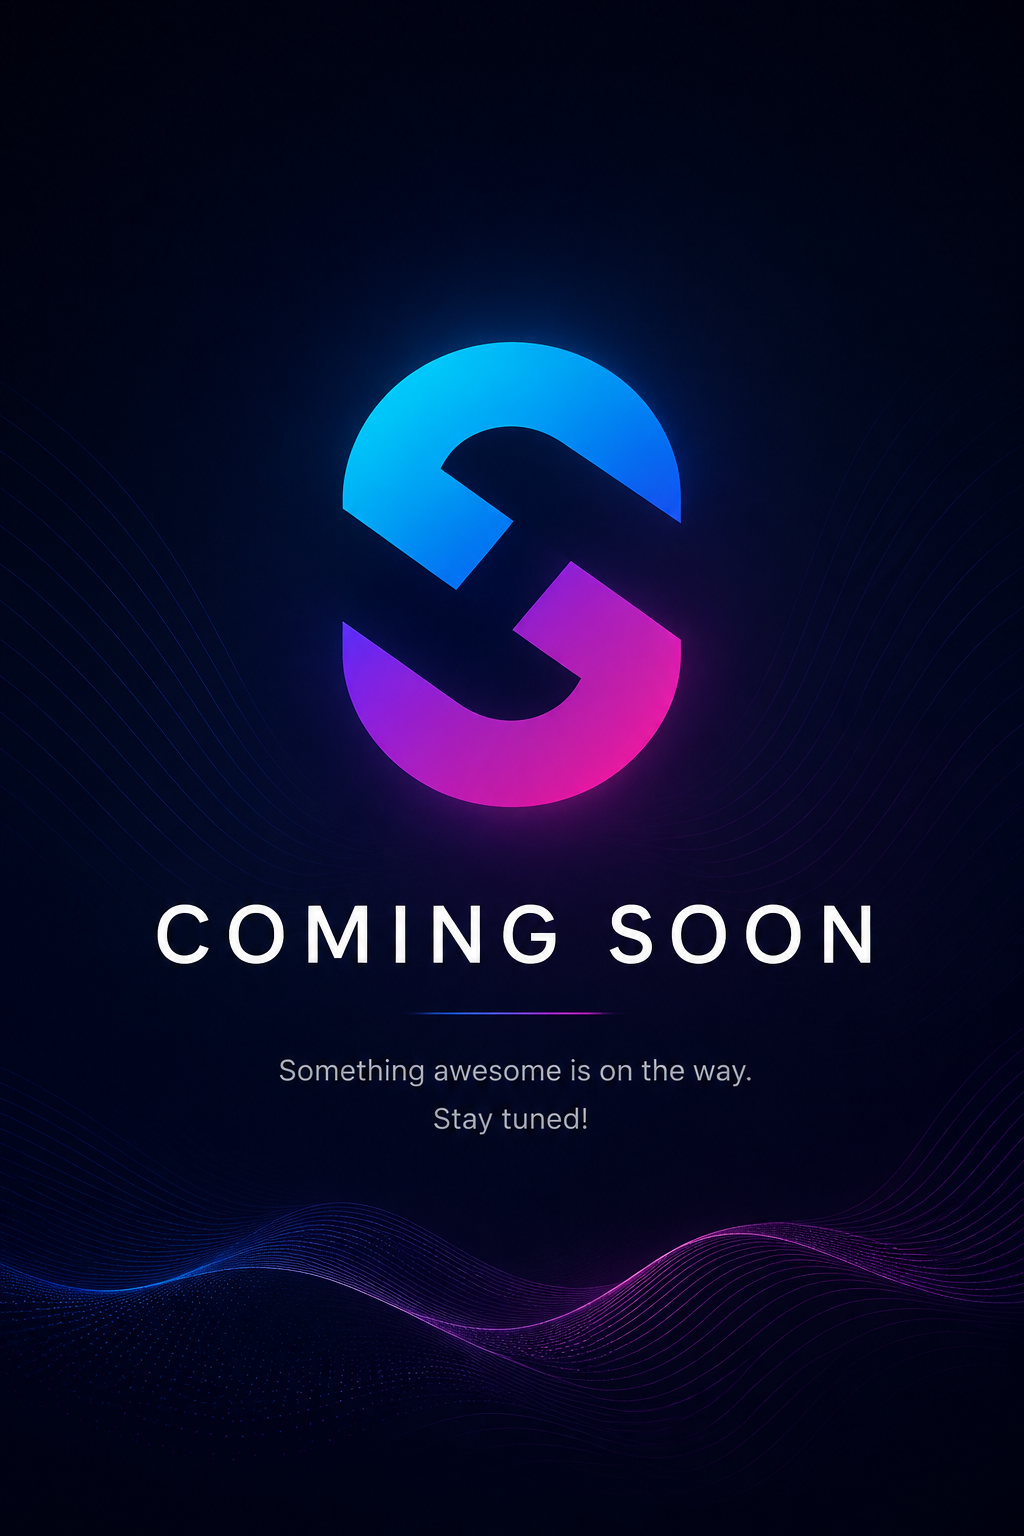
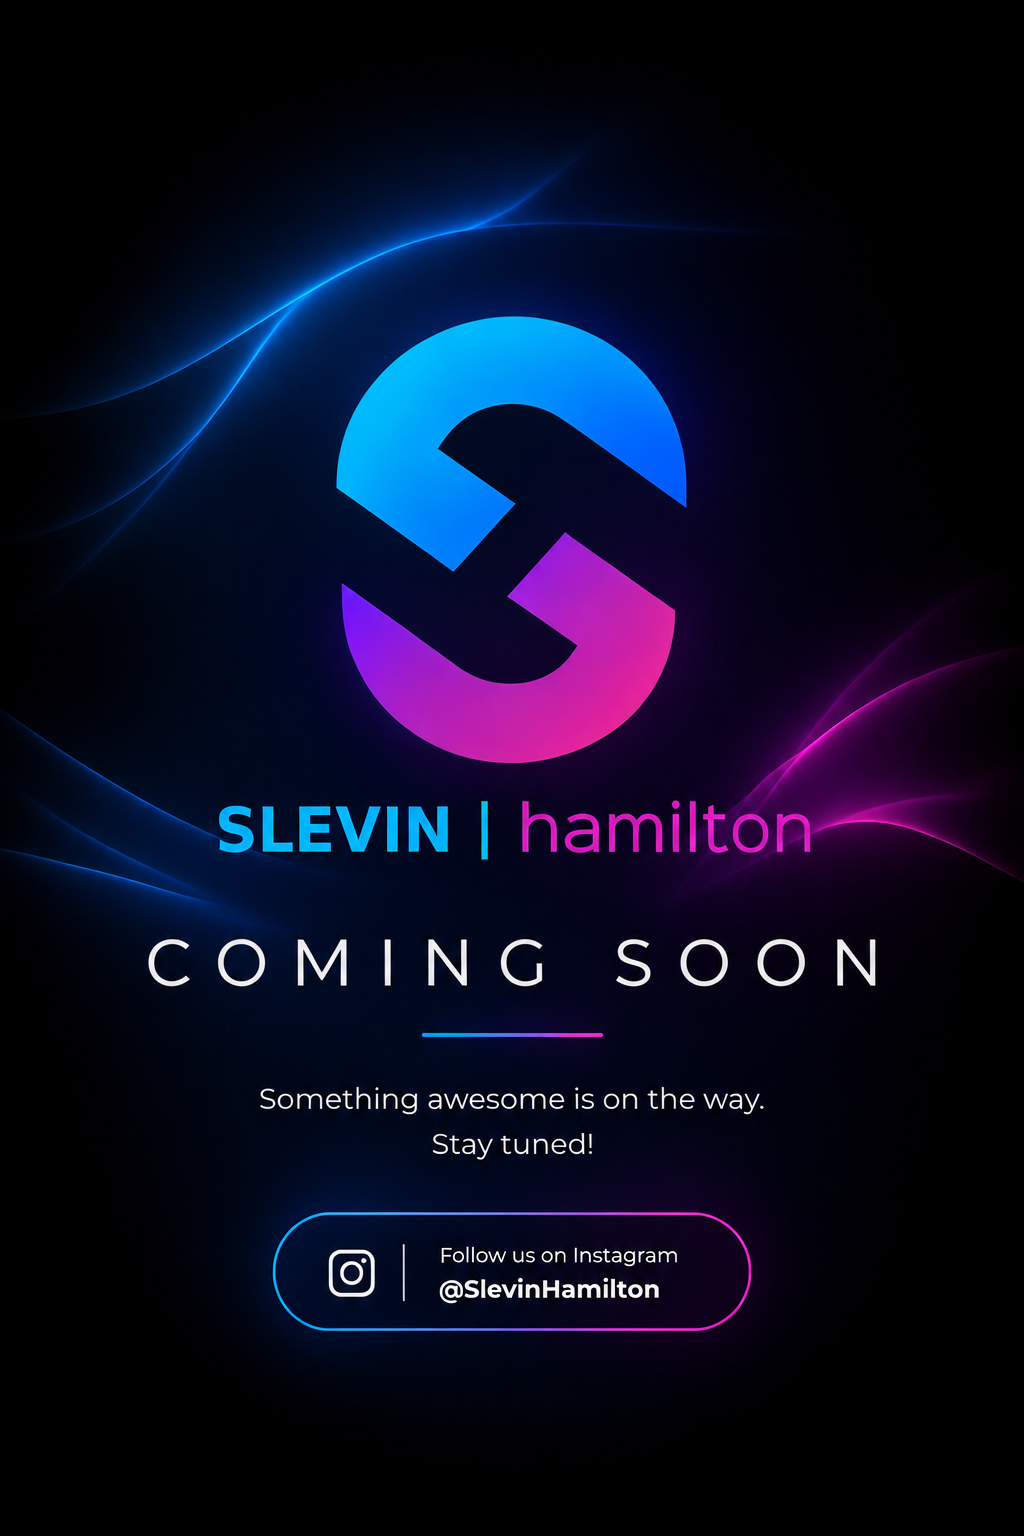
Add files via upload

diff --git a/index.html b/index.html
@@ -1,192 +1,46 @@
 <!doctype html>
 <html lang="en">
 <head>
-  <meta charset="utf-8" />
-  <meta name="viewport" content="width=device-width, initial-scale=1" />
-  <meta name="theme-color" content="#000000" />
-  <meta name="description" content="Slevin Hamilton — Coming Soon" />
+  <meta charset="utf-8">
+  <meta name="viewport" content="width=device-width, initial-scale=1">
+  <meta name="theme-color" content="#000000">
   <title>Slevin Hamilton — Coming Soon</title>
   <style>
-    :root{
-      --bg:#000;
-      --navy:#0b1024;
-      --cyan:#28b9ef;
-      --blue:#2f7ff0;
-      --violet:#8c39e8;
-      --magenta:#d1269a;
-      --text:#f7f7fb;
-      --muted:#b9bcc9;
+    html, body {
+      margin: 0;
+      min-height: 100%;
+      background: #000;
     }
 
-    *{box-sizing:border-box}
-    html,body{margin:0;min-height:100%;background:var(--bg);color:var(--text)}
-    body{
-      font-family:Inter,ui-sans-serif,-apple-system,BlinkMacSystemFont,"Segoe UI",Roboto,Helvetica,Arial,sans-serif;
-      overflow-x:hidden;
+    body {
+      min-height: 100vh;
+      display: flex;
+      align-items: center;
+      justify-content: center;
+      overflow-x: hidden;
     }
 
-    .page{
-      min-height:100svh;
-      display:grid;
-      place-items:center;
-      padding:clamp(28px,4vw,64px) 20px;
-      background:
-        radial-gradient(circle at 50% 28%, rgba(23,43,111,.42), transparent 30%),
-        radial-gradient(circle at 26% 45%, rgba(0,136,255,.12), transparent 28%),
-        radial-gradient(circle at 74% 50%, rgba(210,38,154,.11), transparent 28%),
-        linear-gradient(180deg,#000 0%,#02030a 20%,#050816 48%,#02030a 78%,#000 100%);
-      position:relative;
-      isolation:isolate;
+    .page {
+      width: 100%;
+      display: flex;
+      justify-content: center;
+      background: #000;
     }
 
-    .page::before,
-    .page::after{
-      content:"";
-      position:absolute;
-      inset:0;
-      pointer-events:none;
-      z-index:-1;
-    }
-
-    .page::before{
-      background:
-        radial-gradient(ellipse at 50% 0%, transparent 0 46%, rgba(0,0,0,.28) 73%, rgba(0,0,0,.82) 100%),
-        linear-gradient(90deg, rgba(0,0,0,.82), transparent 18%, transparent 82%, rgba(0,0,0,.82));
-    }
-
-    .page::after{
-      background:
-        radial-gradient(55% 24% at 14% 36%, rgba(35,130,255,.18), transparent 70%),
-        radial-gradient(55% 24% at 86% 54%, rgba(214,38,154,.17), transparent 70%);
-      filter:blur(18px);
-    }
-
-    .card{
-      width:min(860px,100%);
-      text-align:center;
-      display:flex;
-      flex-direction:column;
-      align-items:center;
-    }
-
-    .logo{
-      width:min(560px,82vw);
-      height:auto;
-      display:block;
-      margin:0 auto clamp(44px,7vw,78px);
-      filter:drop-shadow(0 0 28px rgba(38,148,255,.14)) drop-shadow(0 0 28px rgba(209,38,154,.11));
-    }
-
-    h1{
-      margin:0;
-      font-size:clamp(42px,8vw,92px);
-      font-weight:500;
-      letter-spacing:.19em;
-      line-height:1;
-      text-transform:uppercase;
-      text-indent:.19em;
-    }
-
-    .divider{
-      width:min(170px,32vw);
-      height:3px;
-      border-radius:999px;
-      margin:34px 0 28px;
-      background:linear-gradient(90deg,var(--cyan),var(--blue),var(--violet),var(--magenta));
-      box-shadow:0 0 16px rgba(82,109,255,.35);
-    }
-
-    .message{
-      margin:0;
-      color:var(--muted);
-      font-size:clamp(17px,2.2vw,24px);
-      line-height:1.6;
-      letter-spacing:.01em;
-    }
-
-    .instagram{
-      margin-top:34px;
-      display:inline-flex;
-      align-items:center;
-      gap:16px;
-      padding:14px 20px;
-      border:1.5px solid transparent;
-      border-radius:999px;
-      color:#fff;
-      text-decoration:none;
-      background:
-        linear-gradient(#060814,#060814) padding-box,
-        linear-gradient(90deg,var(--cyan),var(--blue),var(--violet),var(--magenta)) border-box;
-      box-shadow:0 0 20px rgba(138,57,232,.14);
-      transition:transform .18s ease, box-shadow .18s ease;
-    }
-
-    .instagram:hover,
-    .instagram:focus-visible{
-      transform:translateY(-2px);
-      box-shadow:0 0 28px rgba(138,57,232,.25);
-      outline:none;
-    }
-
-    .instagram svg{
-      width:29px;
-      height:29px;
-      flex:0 0 auto;
-    }
-
-    .ig-copy{
-      text-align:left;
-      line-height:1.15;
-    }
-
-    .ig-label{
-      display:block;
-      font-size:13px;
-      color:#cfd1db;
-      margin-bottom:4px;
-    }
-
-    .ig-handle{
-      display:block;
-      font-weight:700;
-      font-size:18px;
-      letter-spacing:.01em;
-    }
-
-    @media (max-width:640px){
-      .page{padding-inline:16px}
-      .logo{width:min(520px,92vw);margin-bottom:40px}
-      h1{letter-spacing:.12em;text-indent:.12em}
-      .instagram{padding:13px 17px;gap:13px}
-      .ig-handle{font-size:16px}
-    }
-
-    @media (prefers-reduced-motion:reduce){
-      *{scroll-behavior:auto!important;transition:none!important}
+    .hero {
+      display: block;
+      width: min(100%, 1024px);
+      height: auto;
     }
   </style>
 </head>
 <body>
   <main class="page">
-    <section class="card" aria-labelledby="coming-soon">
-      <img class="logo" src="slevin-hamilton-logo.png" alt="Slevin Hamilton" />
-
-      <h1 id="coming-soon">Coming Soon</h1>
-      <div class="divider" aria-hidden="true"></div>
-      <p class="message">Something awesome is on the way.<br />Stay tuned!</p>
-
-      <a class="instagram" href="https://www.instagram.com/SlevinHamilton/" target="_blank" rel="noopener noreferrer" aria-label="Follow Slevin Hamilton on Instagram">
-        <svg viewBox="0 0 24 24" fill="none" aria-hidden="true">
-          <rect x="3" y="3" width="18" height="18" rx="5" stroke="currentColor" stroke-width="1.8"/>
-          <circle cx="12" cy="12" r="4" stroke="currentColor" stroke-width="1.8"/>
-          <circle cx="17.4" cy="6.6" r="1.1" fill="currentColor"/>
-        </svg>
-        <span class="ig-copy">
-          <span class="ig-label">Follow us on Instagram</span>
-          <span class="ig-handle">@SlevinHamilton</span>
-        </span>
-      </a>
-    </section>
+    <img
+      class="hero"
+      src="coming-soon.png"
+      alt="Slevin Hamilton — Coming Soon"
+    >
   </main>
 </body>
 </html>
